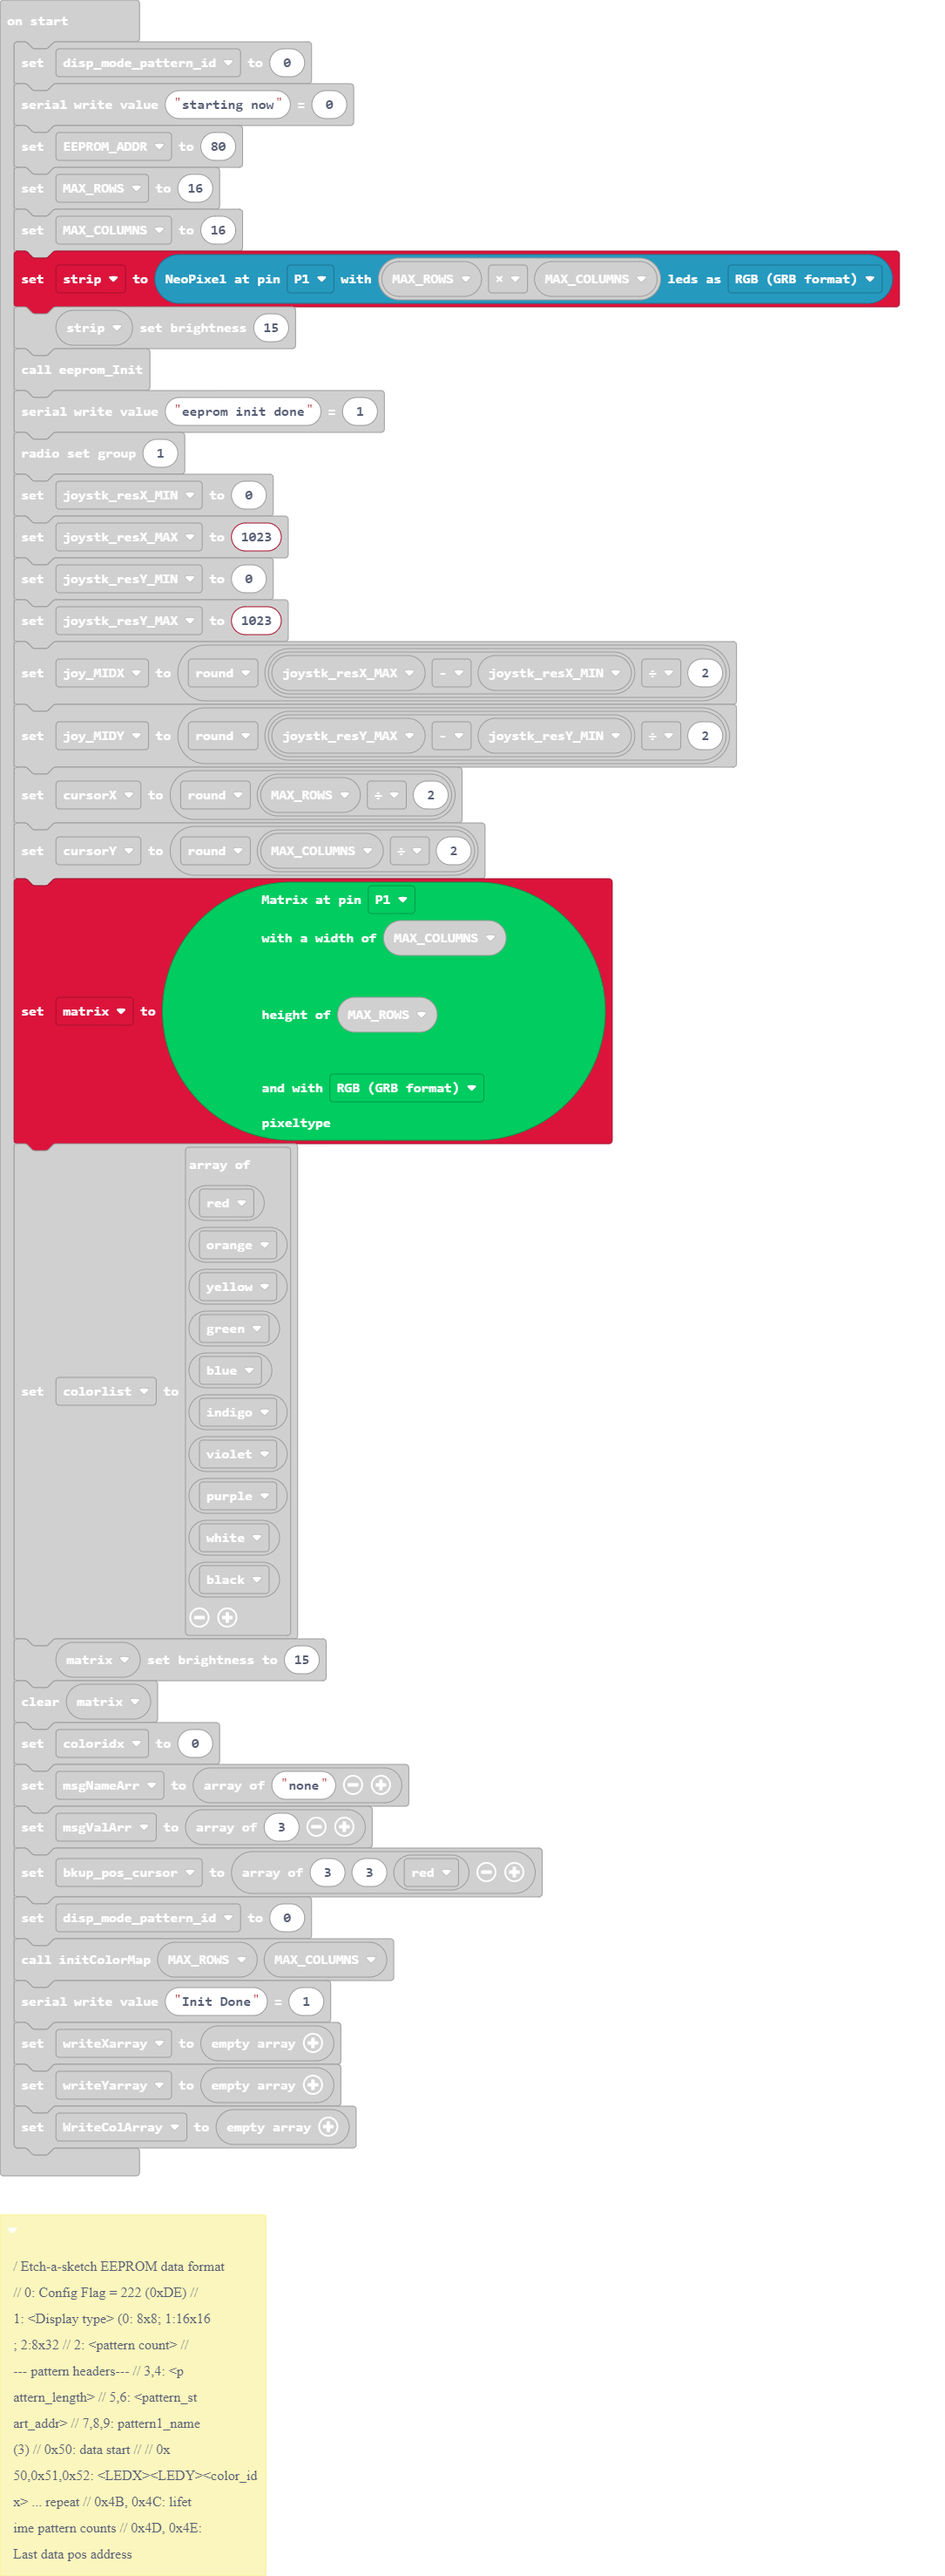
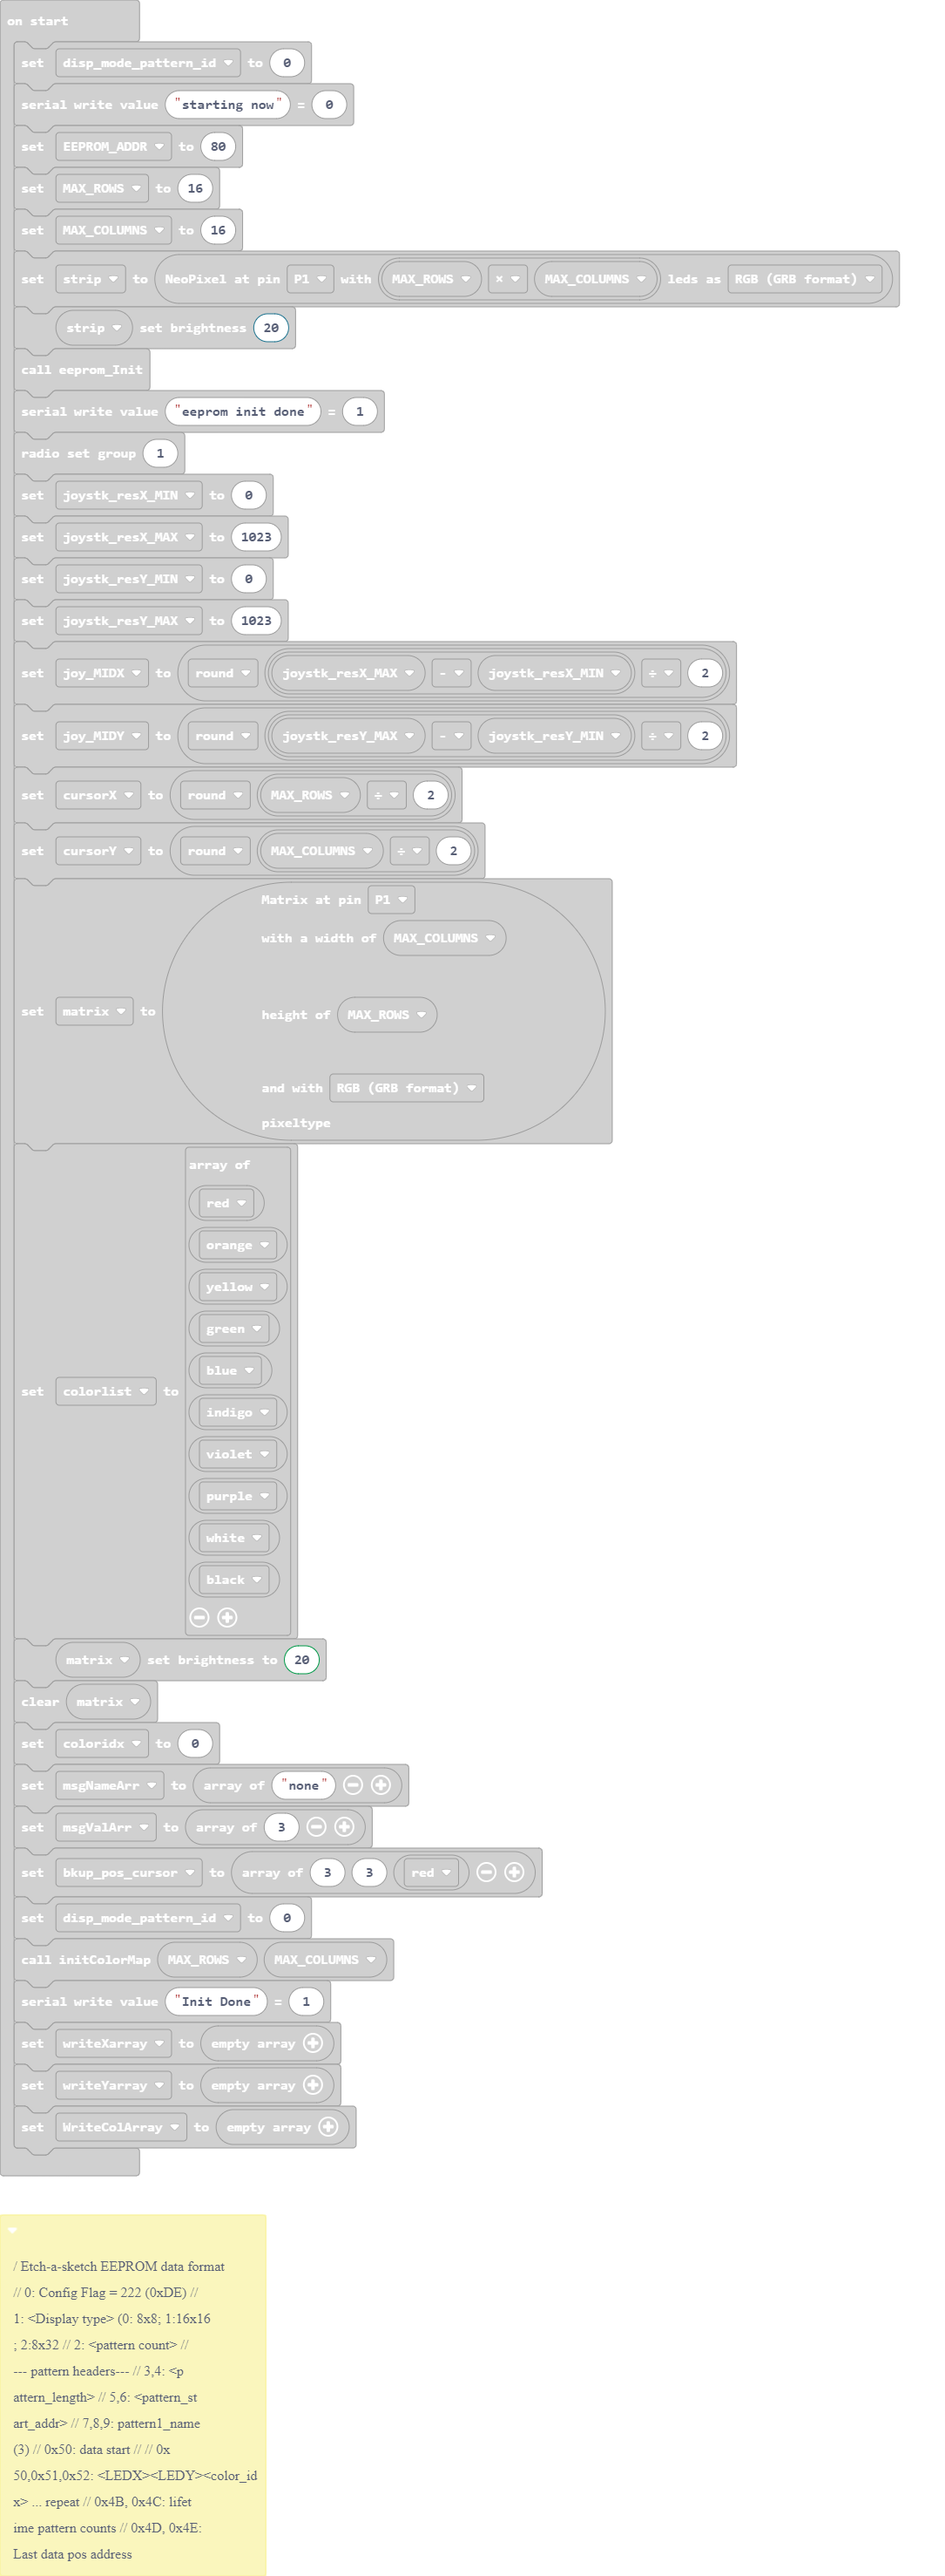
cleanup for joystick fiter

Changed region(s): [[0.0, 0.3425, 0.6691, 0.467], [0.0, 0.0934, 0.9733, 0.1245]]

diff --git a/main.ts b/main.ts
@@ -388,7 +388,7 @@ EEPROM_ADDR = 80
 MAX_ROWS = 16
 MAX_COLUMNS = 16
 strip = neopixel.create(DigitalPin.P1, MAX_ROWS * MAX_COLUMNS, NeoPixelMode.RGB)
-strip.setBrightness(15)
+strip.setBrightness(20)
 eeprom_Init()
 serial.writeValue("eeprom init done", 1)
 radio.setGroup(1)
@@ -418,7 +418,7 @@ neopixel.colors(NeoPixelColors.Purple),
 neopixel.colors(NeoPixelColors.White),
 neopixel.colors(NeoPixelColors.Black)
 ]
-matrix.Brightness(15)
+matrix.Brightness(20)
 matrix.clear()
 coloridx = 0
 msgNameArr = ["none"]
